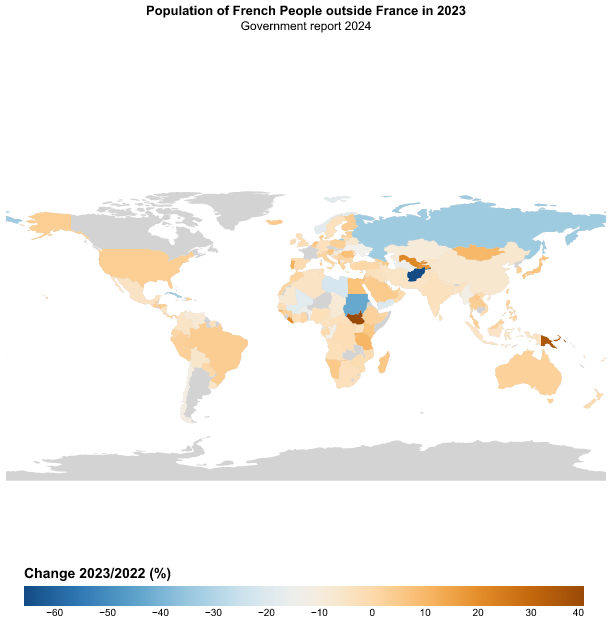
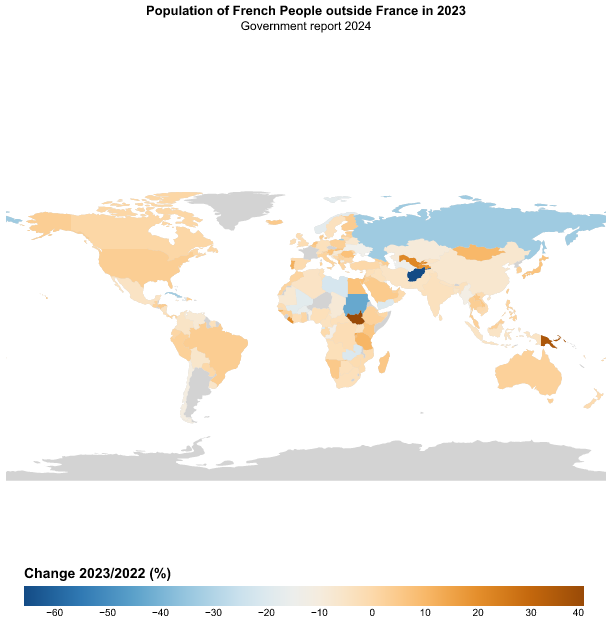
Added project details

Changed region(s): [[0.0933, 0.2808, 0.3732, 0.4056], [0.5597, 0.5304, 0.5908, 0.5616]]

diff --git a/src/data_manager.py b/src/data_manager.py
@@ -205,37 +205,31 @@ class ReportData:
             df['Change 2023/2022 (%)'] = df['Change 2023/2022 (%)'].str.replace(',', '.')
 
             # Missing entries
+            # Located a deficiency in how pdfplumber operator, append missing values manually.
             df_missing_entries = pd.DataFrame({
-                'Rang': ['5', '51'],
-                'Country FR': ['Canada', 'Cambodge'],
-                'Population 2023': [108847, 4967],
-                'Change 2023/2022 (%)' : [0.65, -0.16]
+                'Rang': ['5', '51', '97', '143'],
+                'Country FR': ['Canada', 'Cambodge', 'Slovaquie', 'Zambie'],
+                'Population 2023': [108847, 4967, 930, 185],
+                'Change 2023/2022 (%)' : [0.65, -0.16, 7.31, -20.54]
                 }
             )
 
             df = pd.concat([df, df_missing_entries])
-            df['Rang'] = df['Rang'].apply(pd.to_numeric)
-            df = df.sort_values('Rang')
-
-            df['row_number'] = range(len(df))
-            df['test'] = df.apply(lambda row: int(row.Rang) == row.row_number+1, axis=1)
-
-            print(df[['Rang', 'Country FR', 'row_number', 'test']].query('test'))
-
-
 
             # Convert columns  to numeric
             columns_numeric = ['Rang', 'Population 2023', 'Change 2023/2022 (%)']
             df[columns_numeric] = df[columns_numeric].apply(pd.to_numeric)
 
-            # Located a deficiency in how pdfplumber operates
-            # Some rows are not uploaded
+            # Sort by rang
+            # We added some values manually and the rang is not ordered
+            df = df.sort_values(by=['Rang'], ascending=True)
 
 
             # Country names are in French, create a column with English names
             translate_country = pd.read_csv(MAPPING_COUNTRIES, sep=';')
             df = pd.merge(df, translate_country, on="Country FR")
 
-            # df.to_pickle(INPUT_DATA_PICKLE)
+            # Pickle
+            df.to_pickle(INPUT_DATA_PICKLE)
 
         return df

diff --git a/src/main.py b/src/main.py
@@ -4,7 +4,7 @@ from data_manager import ReportData
 report = ReportData()
 
 # Explore data via visualizations
-# report.explore_data()
+report.explore_data()
 # report.plot_geo_distribution()
 
 # END ----------------

diff --git a/README.md b/README.md
@@ -1,9 +1,7 @@
 # French people outside France
 French people living outside France as per government report 2024.
-Main insights 
-- The top countries are Switzerland, the United States of America, the United Kingdom, and Belgium.
-- 
-
+The countries with the highest population are Switzerland, the United States of America, 
+the United Kingdom, Belgium, and Canada.
 
 ## Project structure
 .
